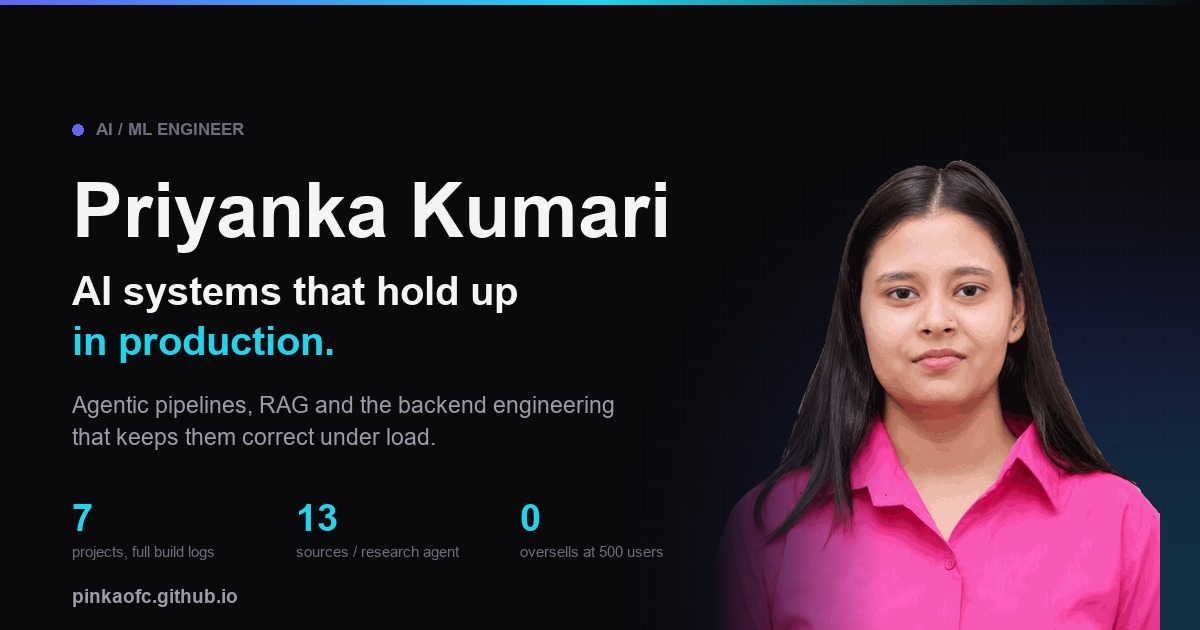
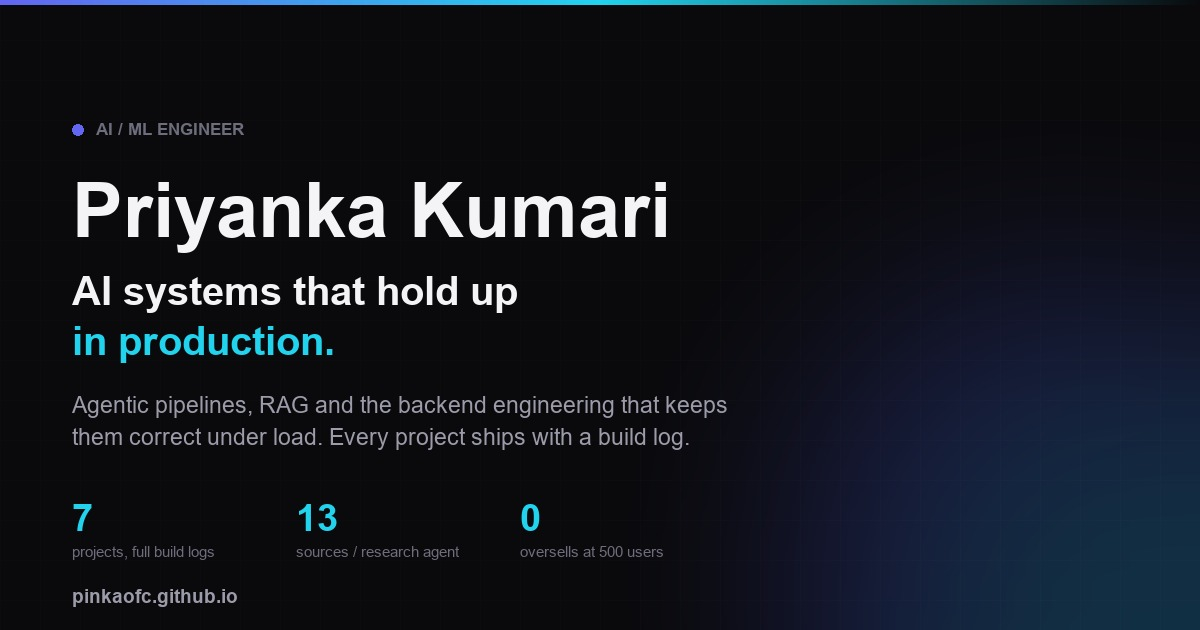
Remove the portrait from the site
Dropped the About-section photo, its styles, and the three image files
(priyanka.png, priyanka-og.jpg, priyanka.jpg) rather than leaving orphans in
the repository - a deleted image is still served if the file stays.

Regenerated the social share card without the photograph. It is typographic
only now, with the supporting copy widened into the space the portrait used to
occupy, so a shared link still previews as a designed card rather than a bare
URL. Verified no reference to any portrait file remains in the HTML, CSS or
sitemap.

Changed region(s): [[0.5858, 0.2413, 0.9867, 1.0], [0.0925, 0.6333, 0.6167, 0.7238]]

diff --git a/style.css b/style.css
@@ -278,16 +278,6 @@ h1 em,h2 em{
 .about-copy{font-size:17.5px;color:var(--muted);line-height:1.75}
 .about-copy p{margin:0 0 24px}
 .about-copy strong{color:var(--ink);font-weight:600}
-.portrait{margin:40px 0 0;max-width:270px;position:relative}
-.portrait img{
-  display:block;width:100%;height:auto;border-radius:18px;
-  border:1px solid var(--line-2);
-  box-shadow:0 18px 44px rgba(0,0,0,.55);
-}
-.portrait figcaption{
-  font:500 11px var(--mono);color:var(--dim);margin-top:16px;letter-spacing:.1em;
-  text-transform:uppercase;
-}
 .principles{list-style:none;margin:32px 0 0;padding:0;border-top:1px solid var(--line)}
 .principles li{font-size:15px;line-height:1.65;color:var(--muted);padding:17px 0;border-bottom:1px solid var(--line)}
 .principles b{display:block;font-size:14.5px;color:var(--ink);font-weight:600;margin-bottom:3px}

diff --git a/index.html b/index.html
@@ -294,10 +294,6 @@
         <div class="section-heading reveal">
           <p class="eyebrow">03 — ABOUT</p>
           <h2>More than models. <em>I build systems.</em></h2>
-          <figure class="portrait reveal">
-            <img src="assets/priyanka.png" alt="Priyanka Kumari, AI/ML Engineer" width="640" height="800" loading="lazy" decoding="async">
-            <figcaption>Priyanka Kumari · AI/ML Engineer</figcaption>
-          </figure>
         </div>
         <div class="about-copy reveal">
           <p>I'm Priyanka Kumari, an AI/ML Engineer focused on building intelligent applications that solve real problems.</p>
